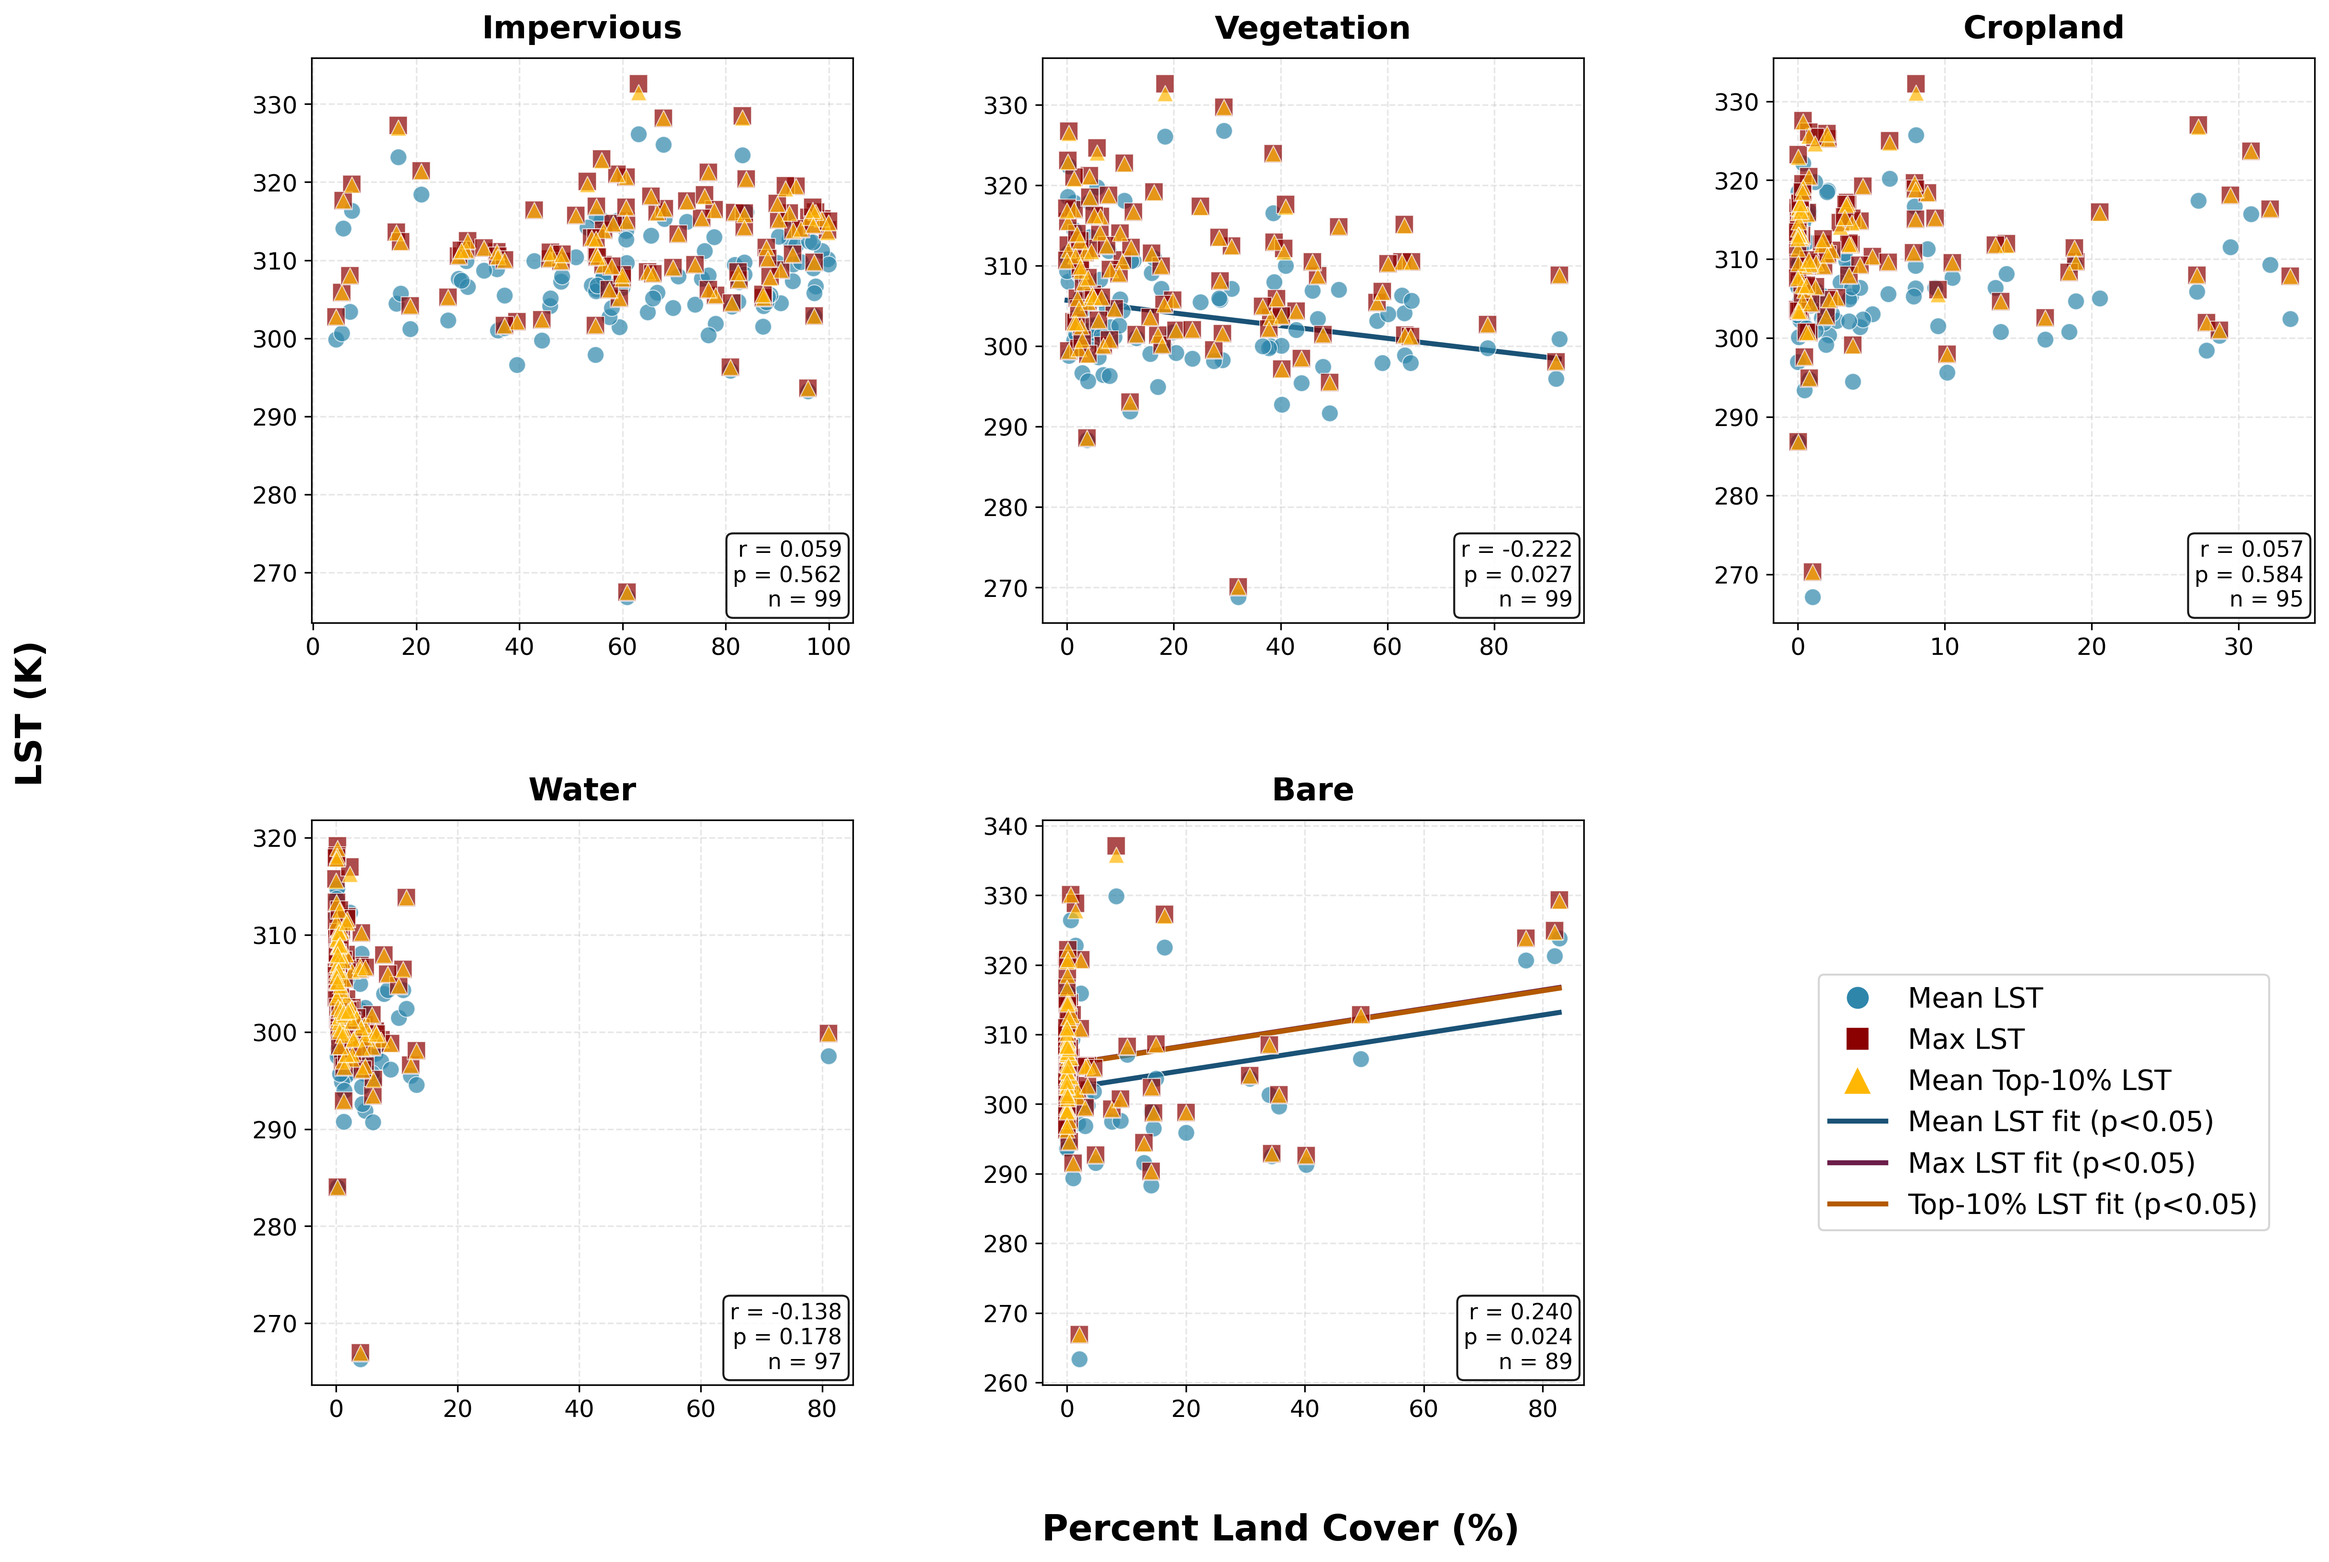
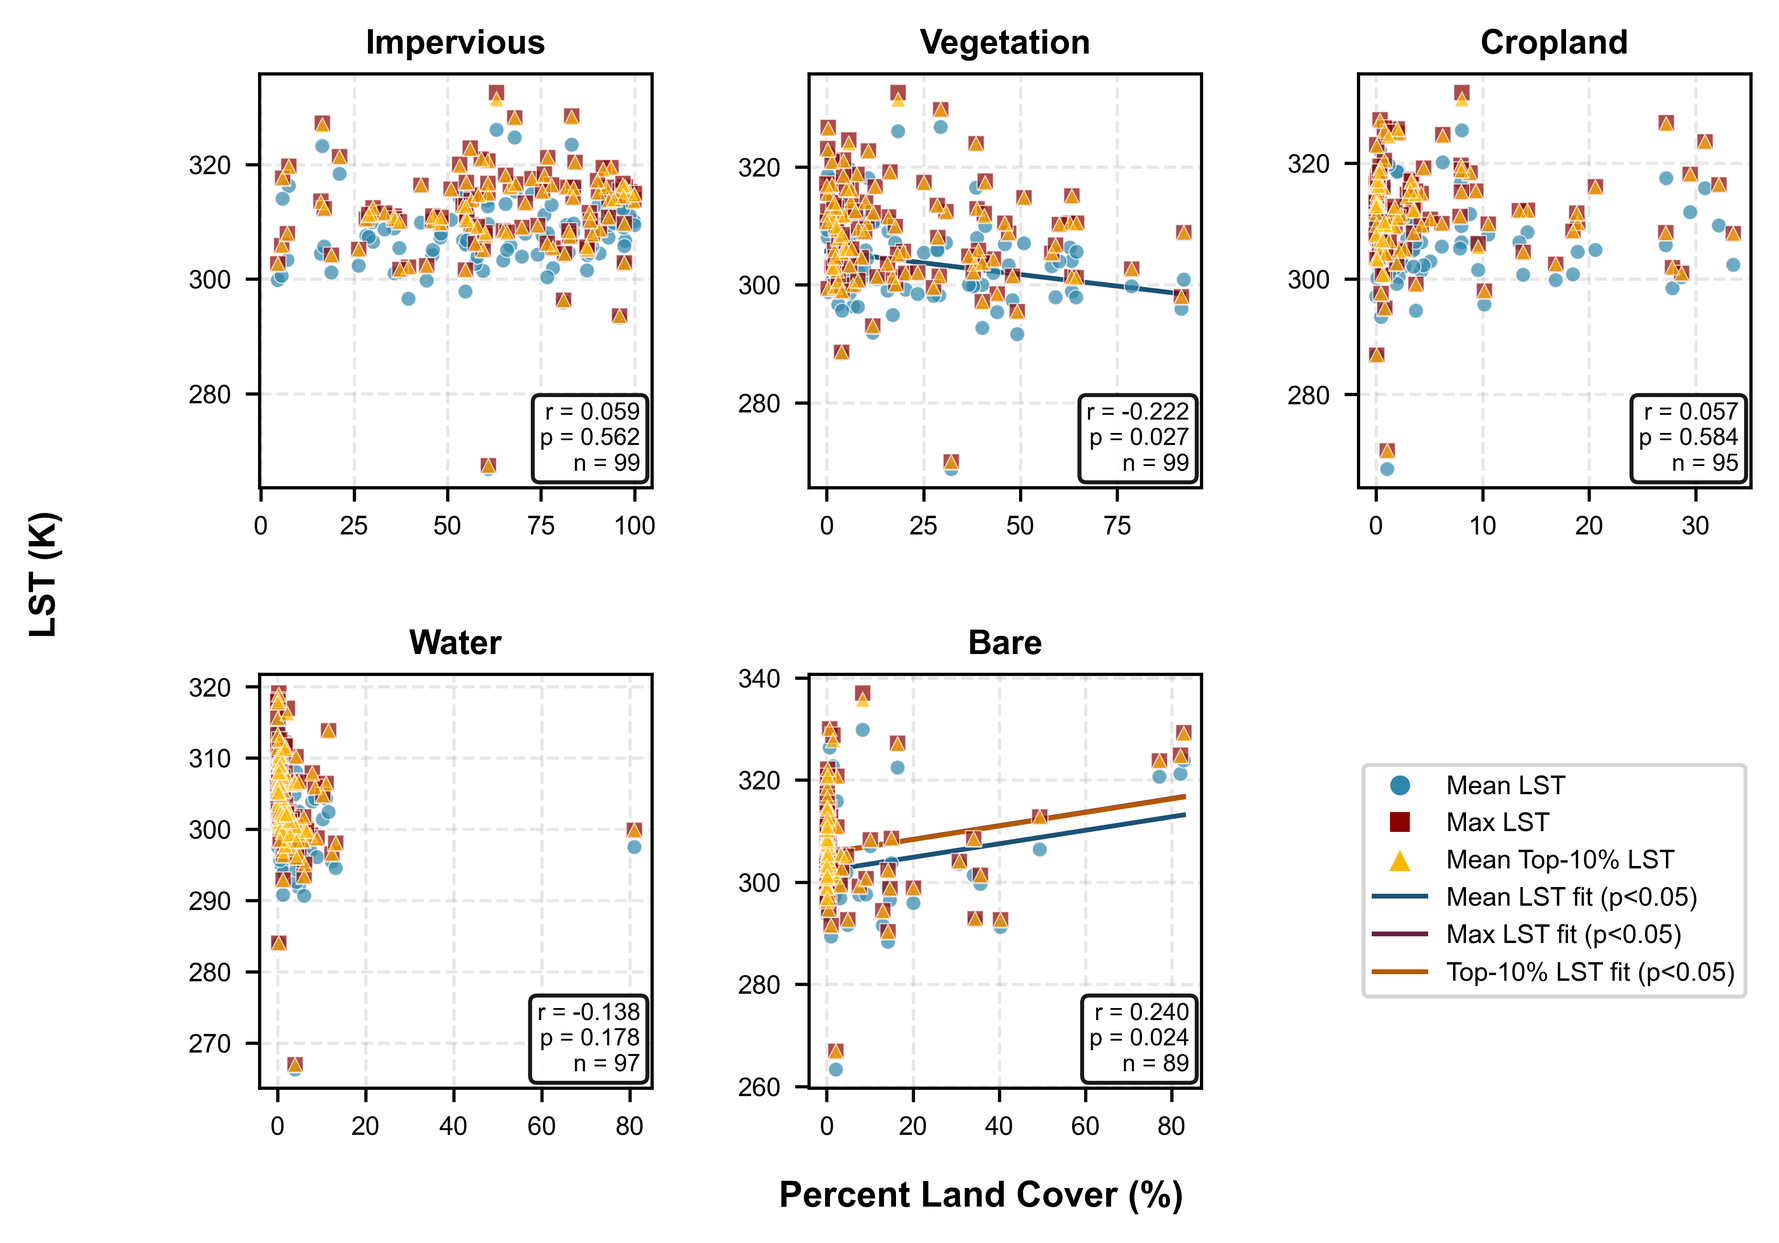
Regenerate figures at 600 dpi with print-correct sizing for journal submission

diff --git a/scripts/figure_04_lc_vs_lst_scatter_2020.py b/scripts/figure_04_lc_vs_lst_scatter_2020.py
@@ -4,13 +4,18 @@ Figure 4: Scatter plots of LC% vs LST metrics (mean, max, top-10%) for each LC c
 Includes correlation coefficients and regression lines where p < 0.05.
 Outputs: figure_04_lc_vs_lst_scatter_2020.png
 Data required: city_year_lst_lc.csv
+
 """
 
+import matplotlib
 import pandas as pd
 import numpy as np
 import matplotlib.pyplot as plt
 import matplotlib.gridspec as gridspec
 from scipy import stats
+
+matplotlib.rcParams['font.family'] = 'sans-serif'
+matplotlib.rcParams['font.sans-serif'] = ['Arial', 'Helvetica', 'DejaVu Sans']
 
 df = pd.read_csv("../data/city_year_lst_lc.csv")
 df_2020 = df[df['year'] == 2020].copy()
@@ -40,9 +45,9 @@ for lc_name, data in data_by_class.items():
                              'max': (r_max, p_max, n),
                              'top10': (r_top10, p_top10, n)}
 
-# Plot
-fig = plt.figure(figsize=(18, 12))
-gs = gridspec.GridSpec(2, 3, figure=fig, wspace=0.35, hspace=0.35)
+# Plot -- figure is generated at final print width (~170 mm / 6.7 in)
+fig = plt.figure(figsize=(6.7, 4.6))
+gs = gridspec.GridSpec(2, 3, figure=fig, wspace=0.4, hspace=0.45)
 
 mean_color = '#2E86AB'
 max_color = '#8B0000'
@@ -64,61 +69,61 @@ for idx, (row, col) in enumerate(positions):
     y_max = data['max_LST'].values
     y_top10 = data['mean_top10_LST'].values
 
-    ax.scatter(x, y_mean, c=mean_color, marker='o', s=70, alpha=0.7,
-               edgecolors='white', linewidth=0.5, zorder=3, label='Mean LST')
-    ax.scatter(x, y_max, c=max_color, marker='s', s=80, alpha=0.7,
-               edgecolors='white', linewidth=0.5, zorder=3, label='Max LST')
-    ax.scatter(x, y_top10, c=top10_color, marker='^', s=65, alpha=0.7,
-               edgecolors='white', linewidth=0.5, zorder=3, label='Mean Top-10% LST')
+    ax.scatter(x, y_mean, c=mean_color, marker='o', s=14, alpha=0.7,
+               edgecolors='white', linewidth=0.3, zorder=3, label='Mean LST')
+    ax.scatter(x, y_max, c=max_color, marker='s', s=16, alpha=0.7,
+               edgecolors='white', linewidth=0.3, zorder=3, label='Max LST')
+    ax.scatter(x, y_top10, c=top10_color, marker='^', s=14, alpha=0.7,
+               edgecolors='white', linewidth=0.3, zorder=3, label='Mean Top-10% LST')
 
     # Regression lines if significant
     r_mean, p_mean, _ = correlations[lc_name]['mean']
     if p_mean < alpha_sig:
         z = np.polyfit(x, y_mean, 1)
         p_fit = np.poly1d(z)
-        ax.plot(np.sort(x), p_fit(np.sort(x)), color=fit_mean_color, linewidth=2.5, linestyle='-')
+        ax.plot(np.sort(x), p_fit(np.sort(x)), color=fit_mean_color, linewidth=1.2, linestyle='-')
 
     r_max, p_max, _ = correlations[lc_name]['max']
     if p_max < alpha_sig:
         z = np.polyfit(x, y_max, 1)
         p_fit = np.poly1d(z)
-        ax.plot(np.sort(x), p_fit(np.sort(x)), color=fit_max_color, linewidth=2.5, linestyle='-')
+        ax.plot(np.sort(x), p_fit(np.sort(x)), color=fit_max_color, linewidth=1.2, linestyle='-')
 
     r_top10, p_top10, _ = correlations[lc_name]['top10']
     if p_top10 < alpha_sig:
         z = np.polyfit(x, y_top10, 1)
         p_fit = np.poly1d(z)
-        ax.plot(np.sort(x), p_fit(np.sort(x)), color=fit_top10_color, linewidth=2.5, linestyle='-')
+        ax.plot(np.sort(x), p_fit(np.sort(x)), color=fit_top10_color, linewidth=1.2, linestyle='-')
 
-    ax.set_title(lc_name, fontsize=16, fontweight='bold', pad=10)
+    ax.set_title(lc_name, fontsize=8.5, fontweight='bold', pad=5)
 
     # Add stats text box
     r_mean, p_mean, n = correlations[lc_name]['mean']
-    sig = '*' if p_mean < alpha_sig else 'ns'
     stats_text = f'r = {r_mean:.3f}\np = {p_mean:.3f}\nn = {n}'
-    ax.text(0.98, 0.02, stats_text, transform=ax.transAxes, fontsize=11,
+    ax.text(0.97, 0.03, stats_text, transform=ax.transAxes, fontsize=6,
             va='bottom', ha='right', bbox=dict(boxstyle='round', facecolor='white', alpha=0.9))
 
     ax.grid(True, alpha=0.3, linestyle='--')
-    ax.tick_params(axis='both', labelsize=12)
+    ax.tick_params(axis='both', labelsize=6.5)
 
-fig.text(0.5, 0.02, 'Percent Land Cover (%)', ha='center', fontsize=18, fontweight='bold')
-fig.text(0.01, 0.5, 'LST (K)', va='center', rotation='vertical', fontsize=18, fontweight='bold')
+fig.text(0.5, 0.02, 'Percent Land Cover (%)', ha='center', fontsize=9, fontweight='bold')
+fig.text(0.005, 0.5, 'LST (K)', va='center', rotation='vertical', fontsize=9, fontweight='bold')
 
 # Legend
 ax_legend = fig.add_subplot(gs[1, 2])
 ax_legend.axis('off')
 from matplotlib.lines import Line2D
 legend_elements = [
-    Line2D([0], [0], marker='o', color='w', markerfacecolor=mean_color, markersize=12, label='Mean LST'),
-    Line2D([0], [0], marker='s', color='w', markerfacecolor=max_color, markersize=12, label='Max LST'),
-    Line2D([0], [0], marker='^', color='w', markerfacecolor=top10_color, markersize=15, label='Mean Top-10% LST'),
-    Line2D([0], [0], color=fit_mean_color, linewidth=2.5, label='Mean LST fit (p<0.05)'),
-    Line2D([0], [0], color=fit_max_color, linewidth=2.5, label='Max LST fit (p<0.05)'),
-    Line2D([0], [0], color=fit_top10_color, linewidth=2.5, label='Top-10% LST fit (p<0.05)'),
+    Line2D([0], [0], marker='o', color='w', markerfacecolor=mean_color, markersize=6, label='Mean LST'),
+    Line2D([0], [0], marker='s', color='w', markerfacecolor=max_color, markersize=6, label='Max LST'),
+    Line2D([0], [0], marker='^', color='w', markerfacecolor=top10_color, markersize=7, label='Mean Top-10% LST'),
+    Line2D([0], [0], color=fit_mean_color, linewidth=1.2, label='Mean LST fit (p<0.05)'),
+    Line2D([0], [0], color=fit_max_color, linewidth=1.2, label='Max LST fit (p<0.05)'),
+    Line2D([0], [0], color=fit_top10_color, linewidth=1.2, label='Top-10% LST fit (p<0.05)'),
 ]
-ax_legend.legend(handles=legend_elements, loc='center', fontsize=14, frameon=True)
+ax_legend.legend(handles=legend_elements, loc='center', fontsize=6.5, frameon=True)
 
 plt.tight_layout(rect=[0.02, 0.04, 1, 0.98])
-plt.savefig("../outputs/figures/figure_04_lc_vs_lst_scatter_2020.png", dpi=300, bbox_inches='tight')
+plt.savefig("../outputs/figures/figure_04_lc_vs_lst_scatter_2020.png",
+            dpi=600, bbox_inches='tight')
 plt.show()

diff --git a/scripts/figure_02_lst_temporal_trends.py b/scripts/figure_02_lst_temporal_trends.py
@@ -8,12 +8,18 @@ Data required:
   - ../data/raw/berkeley_earth_land_tavg.csv (from 00_fetch_berkeley_land.py)
 
 Run 00_fetch_berkeley_land.py first.
+
 """
 
+import matplotlib
 import matplotlib.pyplot as plt
 import seaborn as sns
 import pandas as pd
 import json
+
+# Use a sans-serif font family (Helvetica/Arial), per journal artwork guidelines.
+matplotlib.rcParams['font.family'] = 'sans-serif'
+matplotlib.rcParams['font.sans-serif'] = ['Arial', 'Helvetica', 'DejaVu Sans']
 
 # ---- Load city/LC LST data -------------------------------------------------
 df = pd.read_csv("../data/city_year_lst_lc.csv")
@@ -51,7 +57,9 @@ el_nino_years = [2002, 2004, 2006, 2009, 2015, 2018]
 la_nina_years = [2000, 2005, 2007, 2008, 2010, 2011, 2016, 2017, 2020]
 
 # ---- Plotting ---------------------------------------------------------------
-plt.figure(figsize=(16, 9))
+# figsize is in inches and is chosen to match the ~170 mm (6.7 in) final
+# print width required by the journal, so no post-hoc shrinking happens.
+fig = plt.figure(figsize=(6.7, 4.4))
 sns.set(style="whitegrid")
 
 color_map = {
@@ -66,30 +74,36 @@ for lc_class in color_map.keys():
         display_label = f"{lc_class} (mean)" if metric == 'mean_LST' else f"{lc_class} (max)"
         plt.plot(subset['year'], subset[metric],
                  linestyle=line_styles[metric], color=color_map[lc_class],
-                 linewidth=2.5 if metric == 'mean_LST' else 1.8,
+                 linewidth=1.4 if metric == 'mean_LST' else 1.0,
                  label=display_label, zorder=3)
 
-plt.plot(berkeley_years, berkeley_land_temp_k, color='black', linewidth=3.5,
+plt.plot(berkeley_years, berkeley_land_temp_k, color='black', linewidth=2.0,
           label='Global Mean Land Temp (K)', zorder=4, alpha=0.9)
 
 for i, year in enumerate(el_nino_years):
-    plt.axvline(x=year, color='#C0392B', linestyle=':', alpha=0.6, linewidth=2.2,
+    plt.axvline(x=year, color='#C0392B', linestyle=':', alpha=0.6, linewidth=1.1,
                 label='El Nino' if i == 0 else "", zorder=1)
 for i, year in enumerate(la_nina_years):
-    plt.axvline(x=year, color='#27AE60', linestyle=':', alpha=0.6, linewidth=2.2,
+    plt.axvline(x=year, color='#27AE60', linestyle=':', alpha=0.6, linewidth=1.1,
                 label='La Nina' if i == 0 else "", zorder=1)
 
 plt.title("Temporal Dynamics of LST by LC Class with Global Mean Land Temperature (2000-2020)",
-          fontsize=18, fontweight='bold', pad=15)
-plt.xlabel("Year", fontsize=15, fontweight='bold')
-plt.ylabel("Temperature (K)", fontsize=15, fontweight='bold')
-plt.xticks(sorted(df['year'].unique()), fontsize=13)
-plt.yticks(fontsize=13)
-plt.legend(loc='upper left', bbox_to_anchor=(1.02, 1), fontsize=11)
+          fontsize=9.5, fontweight='bold', pad=8)
+plt.xlabel("Year", fontsize=9, fontweight='bold')
+plt.ylabel("Temperature (K)", fontsize=9, fontweight='bold')
+plt.xticks(sorted(df['year'].unique()), fontsize=7)
+plt.yticks(fontsize=7)
+
+# Legend placed below the plot in multiple columns so it doesn't force the
+# plot area itself to shrink to make room for a tall right-side legend.
+plt.legend(loc='upper center', bbox_to_anchor=(0.5, -0.18), ncol=4,
+           fontsize=6.5, frameon=True)
+
 plt.xlim(1999.5, 2020.5)
 plt.grid(True, alpha=0.3)
 plt.tight_layout()
-plt.savefig("../outputs/figures/figure_02_lst_temporal_trends.png", dpi=300, bbox_inches='tight')
+plt.savefig("../outputs/figures/figure_02_lst_temporal_trends.png",
+            dpi=600, bbox_inches='tight')
 plt.show()
 
 # ---- Print delta summary for the manuscript text ---------------------------

diff --git a/scripts/figure_05_delta_lc_vs_delta_lst.py b/scripts/figure_05_delta_lc_vs_delta_lst.py
@@ -1,15 +1,20 @@
 #!/usr/bin/env python3
 """
-Figure 5: Scatter plots of ΔLC% vs ΔLST (mean LST) for each LC class (2000–2020).
+Figure 5: Scatter plots of ΔLC% vs ΔLST (mean LST) for each LC class (2000-2020).
 Includes regression lines and correlation coefficients.
 Outputs: figure_05_delta_lc_vs_delta_lst.png
 Data required: city_year_lst_lc.csv
+
 """
 
+import matplotlib
 import pandas as pd
 import matplotlib.pyplot as plt
 import seaborn as sns
 from scipy.stats import pearsonr
+
+matplotlib.rcParams['font.family'] = 'sans-serif'
+matplotlib.rcParams['font.sans-serif'] = ['Arial', 'Helvetica', 'DejaVu Sans']
 
 df = pd.read_csv("../data/city_year_lst_lc.csv")
 
@@ -26,7 +31,8 @@ for lc, name in lc_map.items():
 delta_df['delta_mean_LST'] = pivot_2020['mean_LST'][1] - pivot_2000['mean_LST'][1]
 delta_df_clean = delta_df.dropna()
 
-fig, axes = plt.subplots(3, 2, figsize=(14, 12))
+# Taller aspect ratio (3 rows) at the same ~170 mm final print width.
+fig, axes = plt.subplots(3, 2, figsize=(6.7, 7.5))
 axes = axes.flatten()
 
 lc_labels = ['impervious', 'vegetation', 'cropland', 'water', 'bare']
@@ -35,13 +41,17 @@ lc_display = ['Impervious', 'Vegetation', 'Cropland', 'Water', 'Bare']
 for i, (lc, display) in enumerate(zip(lc_labels, lc_display)):
     x = delta_df_clean[f'delta_{lc}']
     y = delta_df_clean['delta_mean_LST']
-    sns.regplot(x=x, y=y, ax=axes[i], scatter_kws={'s': 40}, line_kws={'color': 'red'})
+    sns.regplot(x=x, y=y, ax=axes[i],
+                scatter_kws={'s': 14}, line_kws={'color': 'red', 'linewidth': 1.2})
     r, p = pearsonr(x, y)
-    axes[i].set_title(f'Change in {display} Cover vs ΔLST (2000–2020)\nr = {r:.3f}, p = {p:.4f}')
-    axes[i].set_xlabel(f'Change in {display} Cover (%)')
-    axes[i].set_ylabel('Change in Mean LST (K)')
+    axes[i].set_title(f'Change in {display} Cover vs \u0394LST (2000-2020)\nr = {r:.3f}, p = {p:.4f}',
+                       fontsize=8, fontweight='bold')
+    axes[i].set_xlabel(f'Change in {display} Cover (%)', fontsize=7.5)
+    axes[i].set_ylabel('Change in Mean LST (K)', fontsize=7.5)
+    axes[i].tick_params(axis='both', labelsize=6.5)
 
 axes[5].axis('off')
 plt.tight_layout()
-plt.savefig("../outputs/figures/figure_05_delta_lc_vs_delta_lst.png", dpi=300)
+plt.savefig("../outputs/figures/figure_05_delta_lc_vs_delta_lst.png",
+            dpi=600, bbox_inches='tight')
 plt.show()

diff --git a/scripts/figure_03_lc_composition_trends.py b/scripts/figure_03_lc_composition_trends.py
@@ -1,12 +1,17 @@
 #!/usr/bin/env python3
 """
-Figure 3: Land cover composition trends across 100 global cities (2000–2020).
+Figure 3: Land cover composition trends across 100 global cities (2000-2020).
 Outputs: figure_03_lc_composition_trends.png
 Data required: city_year_lst_lc.csv
+
 """
 
+import matplotlib
 import pandas as pd
 import matplotlib.pyplot as plt
+
+matplotlib.rcParams['font.family'] = 'sans-serif'
+matplotlib.rcParams['font.sans-serif'] = ['Arial', 'Helvetica', 'DejaVu Sans']
 
 df = pd.read_csv("../data/city_year_lst_lc.csv")
 
@@ -27,7 +32,7 @@ color_map = {
     'Bare': '#9467BD'
 }
 
-fig, ax = plt.subplots(figsize=(14, 8))
+fig, ax = plt.subplots(figsize=(6.7, 4.5))
 
 # Individual city trajectories (thin lines)
 for lc_class in color_map.keys():
@@ -37,21 +42,24 @@ for lc_class in color_map.keys():
         city_data = lc_data[lc_data['city'] == city].sort_values('year')
         if len(city_data) > 1:
             ax.plot(city_data['year'], city_data['LC_percent'],
-                    color=color, alpha=0.12, linewidth=0.7, zorder=1)
+                    color=color, alpha=0.12, linewidth=0.4, zorder=1)
 
 # Sample average (bold lines)
 for lc_class in color_map.keys():
     avg_data = sample_avg[sample_avg['LC_class_name'] == lc_class].sort_values('year')
     ax.plot(avg_data['year'], avg_data['LC_percent'],
-            color=color_map[lc_class], linewidth=3.5, label=lc_class,
-            marker='o', markersize=7, zorder=3)
+            color=color_map[lc_class], linewidth=2.0, label=lc_class,
+            marker='o', markersize=3.5, zorder=3)
 
-ax.set_xlabel('Year', fontsize=16, fontweight='bold')
-ax.set_ylabel('Percent Land Cover (%)', fontsize=16, fontweight='bold')
-ax.legend(loc='best', fontsize=13)
+ax.set_xlabel('Year', fontsize=9, fontweight='bold')
+ax.set_ylabel('Percent Land Cover (%)', fontsize=9, fontweight='bold')
+ax.tick_params(axis='both', labelsize=7)
+ax.legend(loc='best', fontsize=7)
 ax.grid(True, alpha=0.3, linestyle='--')
 ax.set_xticks(sorted(df['year'].unique()))
 ax.set_ylim(0, max(sample_avg['LC_percent'].max() * 1.1, 10))
+
 plt.tight_layout()
-plt.savefig("../outputs/figures/figure_03_lc_composition_trends.png", dpi=300)
+plt.savefig("../outputs/figures/figure_03_lc_composition_trends.png",
+            dpi=600, bbox_inches='tight')
 plt.show()
